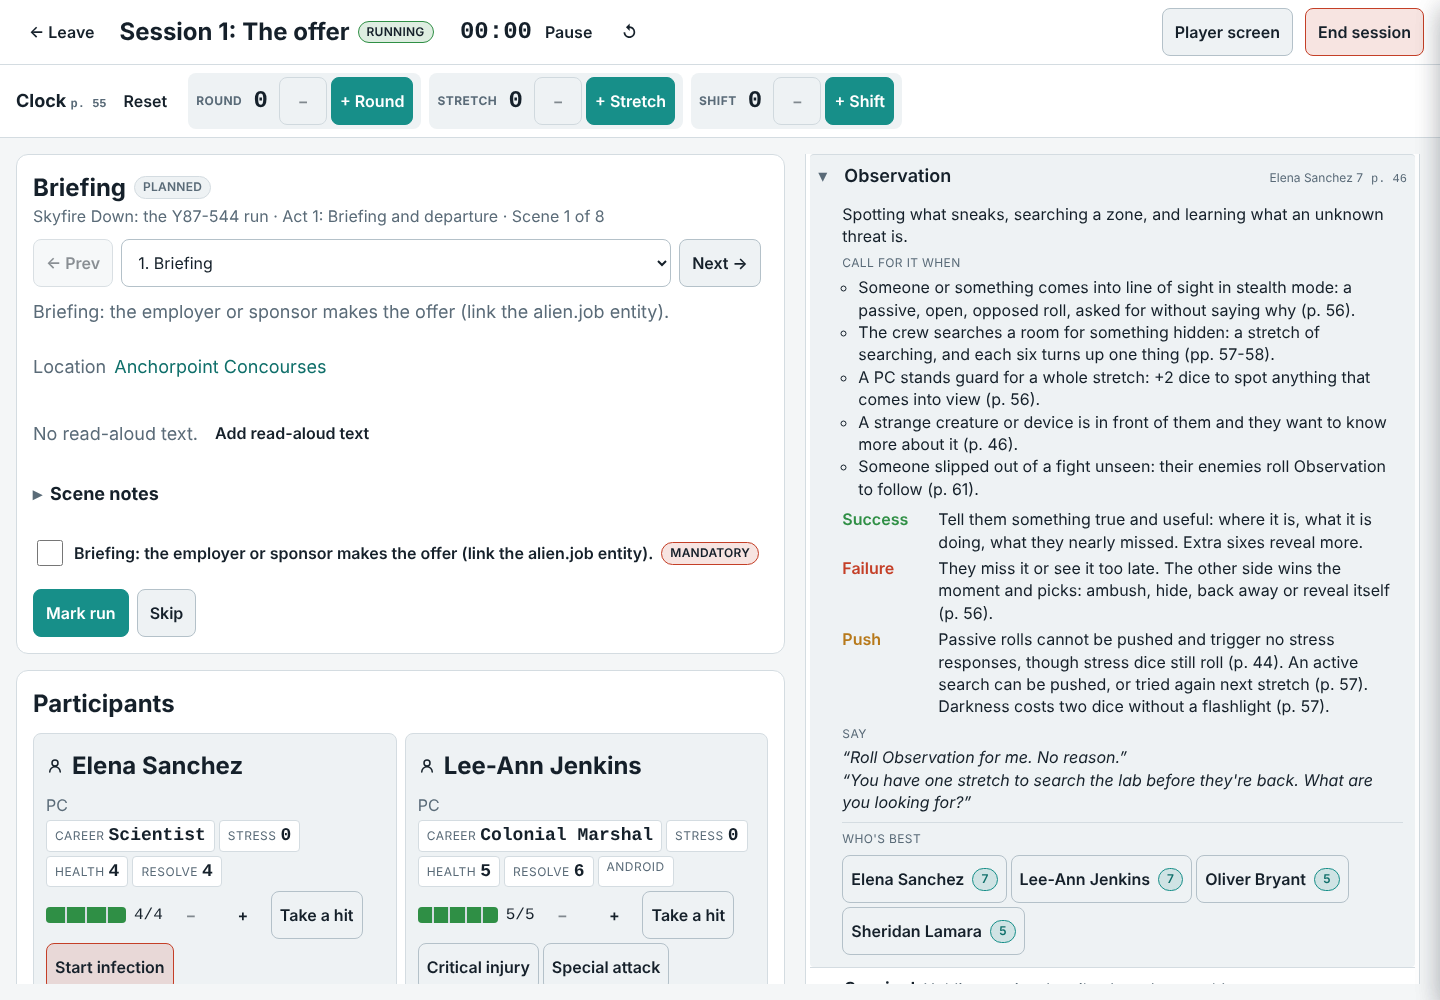
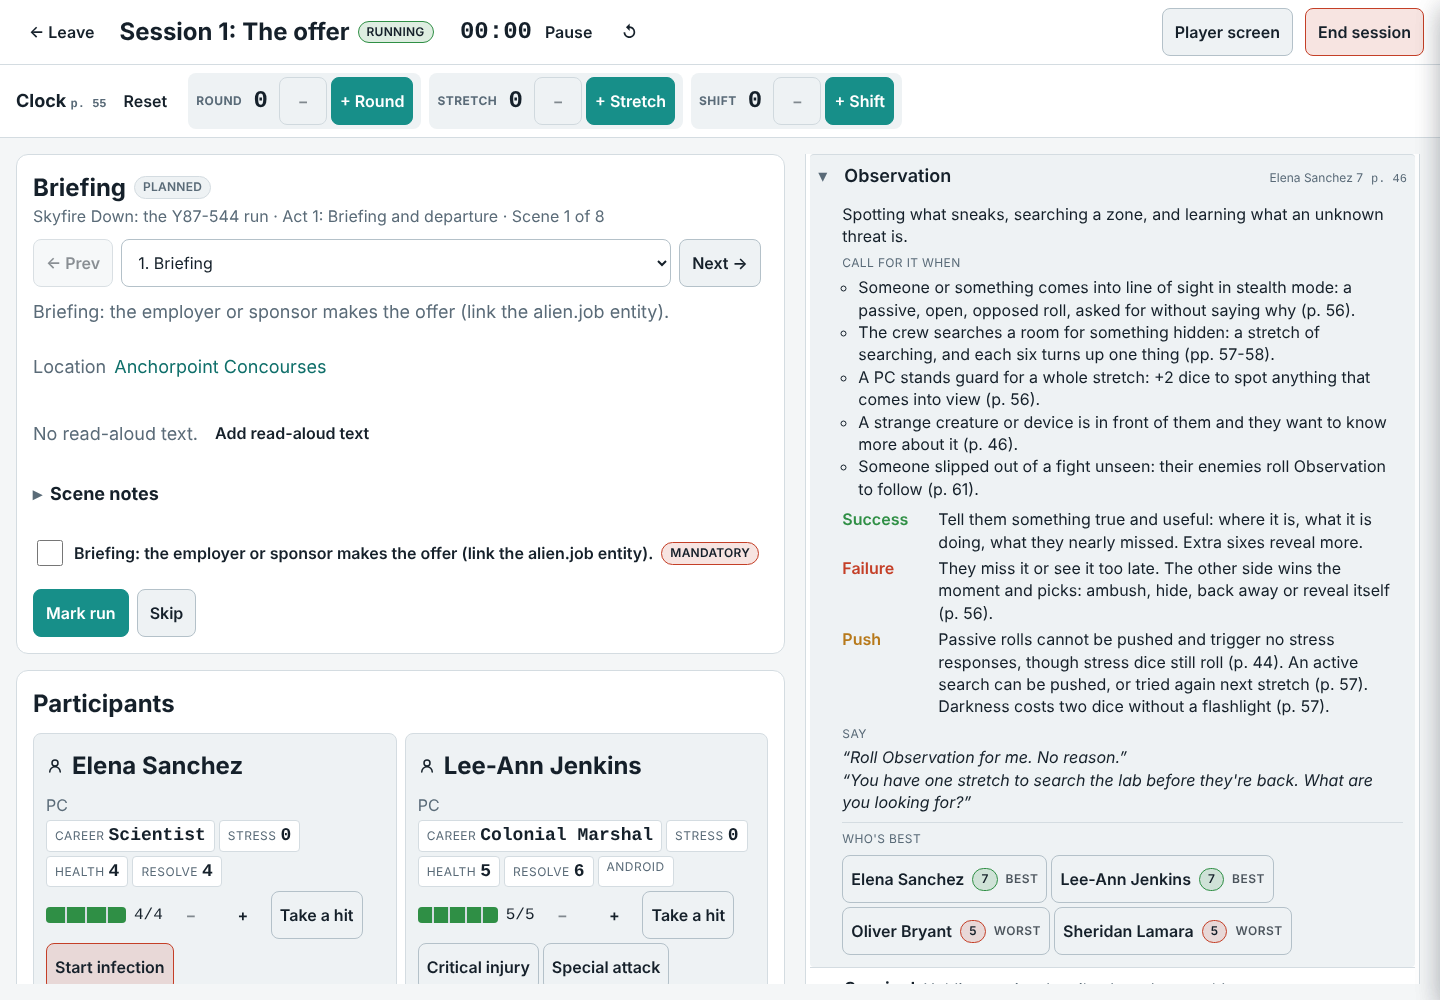
Rank who's best by roll strength, not dice count; add 5e saving throws to the hints
The Hints tab ranked PCs by how many dice their pool rolls. A d20 system
always rolls one die, so every 5e or ORC character tied and the list fell
back to alphabetical order. The SDK now rates a pool with poolStrength:
the dice system's own `strength(pool)` if it defines one, else a d100
roll-under target, else the flat modifier (d20, 2d6), else the dice count
(pools such as Alien). The panel sorts by that, shows it on each badge
("+7", "65%", "4") and marks the best and worst when the party differs.

The 5e play guide gains the six saving throws, with original advice.

Claude-Session: https://claude.ai/code/session_01PjoAoT19ZxbEizz2Vq94tE

Changed region(s): [[0.5938, 0.868, 0.9375, 0.961]]

diff --git a/apps/web/src/features/table/PlayGuidePanel.tsx b/apps/web/src/features/table/PlayGuidePanel.tsx
@@ -6,7 +6,7 @@
  * push adds stress the same way (SessionRollPanel).
  */
 import type { Entity, Id } from "@campaign-forge/core";
-import type { LoadedModule, PlayGuideDef, PlayGuideEntry } from "@campaign-forge/module-sdk";
+import { poolStrength, type LoadedModule, type PlayGuideDef, type PlayGuideEntry } from "@campaign-forge/module-sdk";
 import { useMemo, useState } from "react";
 import { Badge, Button, EmptyState, PlayGuideView, playGuidesForMode } from "../../components/ui";
 import { useCampaign, useMeta } from "../../state/hooks";
@@ -24,6 +24,14 @@ export interface RankedRoller {
   entity: Entity;
   /** Dice from attribute + skill (the module's `buildPool` with no stress). */
   pool: number;
+  /** How good that pool is (higher is better): the dice system's strength, e.g. a d20 bonus or a dice count. */
+  score: number;
+  /** The score as shown ("+5", "65%", "4"). */
+  scoreLabel: string;
+  /** The score read in full ("+5", "65%", "4 dice"). */
+  scoreSpoken: string;
+  /** Top or bottom of the ranking, when the PCs are not all equal. */
+  standing?: "best" | "worst";
   /** Further dice the roll adds today (e.g. stress dice). */
   extra: number;
   /** "Attribute 3 · Skill 2 · …", from the full pool's breakdown. */
@@ -40,22 +48,39 @@ function canRoll(module: LoadedModule, entity: Entity, roll: string): boolean {
   return skillOptions(module, module.entityType(entity.type)).some((s) => s.id === roll);
 }
 
-/** PCs that can roll `roll`, best pool first (ties by name). */
+const signedCount = (n: number) => (n < 0 ? `−${-n}` : `+${n}`);
+
+/**
+ * PCs that can roll `roll`, strongest first (ties by name): ranked by the dice
+ * system's pool strength, so a d20 system ranks by bonus and a pool system by
+ * dice. When the PCs are not all equal, the top and bottom are marked.
+ */
 export function rankRollers(module: LoadedModule, pcs: Entity[], roll: string): RankedRoller[] {
   const dice = module.module.dice;
-  return pcs
+  const ranked: RankedRoller[] = pcs
     .filter((pc) => canRoll(module, pc, roll))
     .map((entity) => {
       const { label, input } = skillInput(module, entity, roll);
       const full = dice.buildPool(input);
-      const pool = diceCount(dice.buildPool({ ...input, stress: 0 }).dice);
+      const base = dice.buildPool({ ...input, stress: 0 });
+      const pool = diceCount(base.dice);
+      const strength = poolStrength(dice, base);
       const breakdown = (full.breakdown ?? [])
         .filter((b) => b.count !== 0)
-        .map((b) => `${b.label} ${b.count}`)
+        // flat modifiers (a d20 bonus) read signed; dice read as a count
+        .map((b) => `${b.label} ${b.die === "mod" ? signedCount(b.count) : b.count}`)
         .join(" · ");
-      return { entity, pool, extra: Math.max(0, diceCount(full.dice) - pool), breakdown, label, input };
+      return { entity, pool, score: strength.score, scoreLabel: strength.label, scoreSpoken: strength.spoken ?? strength.label, extra: Math.max(0, diceCount(full.dice) - pool), breakdown, label, input };
     })
-    .sort((a, b) => b.pool - a.pool || a.entity.name.localeCompare(b.entity.name));
+    .sort((a, b) => b.score - a.score || a.entity.name.localeCompare(b.entity.name));
+  const top = ranked[0]?.score;
+  const bottom = ranked[ranked.length - 1]?.score;
+  if (top !== undefined && bottom !== undefined && top > bottom)
+    for (const r of ranked) {
+      if (r.score === top) r.standing = "best";
+      else if (r.score === bottom) r.standing = "worst";
+    }
+  return ranked;
 }
 
 export function PlayGuidePanel({ sessionId, pcs, others = [] }: { sessionId: Id; pcs: Entity[]; others?: Entity[] }) {
@@ -89,8 +114,8 @@ export function PlayGuidePanel({ sessionId, pcs, others = [] }: { sessionId: Id;
         entryMeta={(e) => {
           const best = ranked.get(e.id)?.[0];
           return best ? (
-            <span className="cf-muted app-guide__bestline" title={`Best pool: ${best.entity.name}, ${best.pool} dice`}>
-              {best.entity.name} {best.pool}
+            <span className="cf-muted app-guide__bestline" title={`Best: ${best.entity.name}, ${best.scoreSpoken}`}>
+              {best.entity.name} {best.scoreLabel}
             </span>
           ) : null;
         }}
@@ -122,7 +147,7 @@ interface ActiveRoll {
   result: ReturnType<typeof rollSessionPool>;
 }
 
-/** The session's PCs ranked by pool for this entry; a tap rolls it for that PC, shown below and logged. */
+/** The session's PCs ranked by roll strength for this entry, best and worst marked; a tap rolls it for that PC, shown below and logged. */
 function WhoIsBest({ sessionId, entry, ranked, hasPcs }: { sessionId: Id; entry: PlayGuideEntry; ranked: RankedRoller[]; hasPcs: boolean }) {
   const ctx = useCampaign();
   const [active, setActive] = useState<ActiveRoll | undefined>();
@@ -143,12 +168,14 @@ function WhoIsBest({ sessionId, entry, ranked, hasPcs }: { sessionId: Id; entry:
               size="sm"
               variant={active?.entityId === r.entity.id ? "primary" : "default"}
               onClick={() => roll(r)}
-              aria-label={`Roll ${entry.label} for ${r.entity.name} (${r.pool} dice)`}
+              aria-label={`Roll ${entry.label} for ${r.entity.name} (${r.scoreSpoken}${r.standing ? `, ${r.standing}` : ""})`}
               title={r.breakdown}
               data-roller={r.entity.id}
+              {...(r.standing ? { "data-standing": r.standing } : {})}
             >
               <span>{r.entity.name}</span>
-              <Badge tone="accent">{r.pool}</Badge>
+              <Badge tone={r.standing === "best" ? "success" : r.standing === "worst" ? "danger" : "accent"}>{r.scoreLabel}</Badge>
+              {r.standing && <span className="app-guide__standing">{r.standing}</span>}
               {r.extra > 0 && <span className="cf-muted">+{r.extra}</span>}
             </Button>
           </li>

diff --git a/packages/module-dnd5e-srd/scripts/authored/guides.ts b/packages/module-dnd5e-srd/scripts/authored/guides.ts
@@ -1,5 +1,5 @@
 /**
- * The play guide: when to call for each ability check and skill, and how a
+ * The play guide: when to call for each ability check, skill and saving throw, and how a
  * success or a failure should move the story. All advice here is original
  * (written for Campaign Forge); the rules it leans on are the SRD's.
  */
@@ -74,6 +74,15 @@ const SKILL_ADVICE: Record<string, Advice> = {
   survival: { summary: "Tracking, foraging, navigating, enduring.", callFor: ["the trail splits", "food is running out", "a blizzard closes in"], success: "They find the way, the food, or the shelter.", failure: "They lose time or supplies, or arrive somewhere unexpected." },
 };
 
+const SAVE_ADVICE: Record<string, Advice> = {
+  strength: { summary: "Resisting force that would move, pin or crush them.", callFor: ["a wave sweeps the deck", "a vine drags them toward the pit", "a giant's shove at the cliff edge"], success: "They hold their ground, and the danger turns to someone or something else.", failure: "They are moved, pinned or knocked down; show where they end up." },
+  dexterity: { summary: "Getting out of the way: blasts, traps, falling things.", callFor: ["a fireball blooms", "the floor tile clicks", "rocks come down in the mine"], success: "They dive clear, usually for half the harm; describe the near miss.", failure: "It catches them full on; describe the scorch, the bruise, the dust." },
+  constitution: { summary: "Enduring poison, disease, cold and exhaustion, and holding concentration.", callFor: ["a poisoned blade bites", "a night in the freezing pass", "a caster is hit while holding a spell"], success: "They shrug it off, for now. Concentration holds.", failure: "The poison takes hold or the spell drops; make the cost visible at once." },
+  intelligence: { summary: "Seeing through illusions and resisting attacks on the mind's reasoning.", callFor: ["a wall that might not be there", "a psychic assault", "a maze that rearranges itself"], success: "They see the trick for what it is; tell them what is real.", failure: "The illusion holds for them; play it straight and let the others notice." },
+  wisdom: { summary: "Resisting charm, fear and control of the will.", callFor: ["a vampire's gaze", "a dragon's frightful presence", "a voice that offers exactly what they want"], success: "Their will is their own; the creature knows they resisted.", failure: "They are charmed, frightened or compelled; give the player a clear rule for what that means." },
+  charisma: { summary: "Holding on to their self: banishment, possession, planar pull.", callFor: ["a spirit tries to take over", "a banishing word", "a curse that would rewrite them"], success: "They stay themselves and stay here.", failure: "They are pushed out of body or plane for a while; keep the player involved with what they see." },
+};
+
 export const playGuide: PlayGuideDef = {
   id: id("guide.checks"),
   title: "Calling for ability checks",
@@ -95,5 +104,6 @@ export const playGuide: PlayGuideDef = {
       if (!advice) throw new Error(`no play advice for ${s.id}`);
       return { id: s.id, label: s.name, group: s.ability, kind: "skill", roll: s.id, ...advice };
     }),
+    ...ABILITIES.map((a): PlayGuideEntry => ({ id: `${a.id}-save`, label: `${a.name} save`, group: a.id, kind: "skill", roll: `${a.id}-save`, ...SAVE_ADVICE[a.id]! })),
   ],
 };

diff --git a/apps/web/src/features/table/playGuide.test.tsx b/apps/web/src/features/table/playGuide.test.tsx
@@ -68,6 +68,28 @@ describe("play guide helpers", () => {
     expect(rank("attr:might")).toEqual([["Aria", 4], ["Bren", 2]]);
     expect(rank("attr:luck")).toEqual([]);
     expect(rankRollers(ctx.module, pcs, "fight")[0]!.breakdown).toBe("Attribute 4 · Skill 2");
+    expect(rankRollers(ctx.module, pcs, "fight").map((r) => r.standing)).toEqual(["best", "worst"]);
+  });
+
+  it("ranks d20 characters by their bonus, not their dice, and marks the best and worst", async () => {
+    const id = await createCampaign({ name: "Guide d20", moduleId: "dnd5e-srd" });
+    const ctx = await openCampaign(id);
+    opened.push(ctx.close);
+    const pc = (name: string, intelligence: number, skills: Record<string, number> = {}, saves: Record<string, number> = {}) =>
+      createEntity(ctx, {
+        type: "dnd5e-srd.character",
+        name,
+        fields: { isPC: true, level: 5, hp: { max: 30, current: 30 }, abilities: { strength: 10, dexterity: 10, constitution: 10, intelligence, wisdom: 10, charisma: 10 }, skills, saves },
+      });
+    const pcs = [pc("Ada", 8), pc("Bo", 18), pc("Cy", 12, { nature: 1 }, { "intelligence-save": 1 }), pc("Di", 12)];
+    const rank = (roll: string) => rankRollers(ctx.module, pcs, roll).map((r) => [r.entity.name, r.scoreLabel, r.standing ?? ""]);
+    // proficiency at level 5 is +3
+    expect(rank("nature")).toEqual([["Bo", "+4", "best"], ["Cy", "+4", "best"], ["Di", "+1", ""], ["Ada", "−1", "worst"]]);
+    expect(rank("attr:intelligence")).toEqual([["Bo", "+4", "best"], ["Cy", "+1", ""], ["Di", "+1", ""], ["Ada", "−1", "worst"]]);
+    expect(rank("intelligence-save")).toEqual([["Bo", "+4", "best"], ["Cy", "+4", "best"], ["Di", "+1", ""], ["Ada", "−1", "worst"]]);
+    expect(rankRollers(ctx.module, pcs, "nature").find((r) => r.entity.name === "Cy")!.breakdown).toBe("Intelligence 12 +1 · Proficiency +3");
+    // all equal: nobody is marked
+    expect(rankRollers(ctx.module, pcs, "attr:strength").every((r) => r.standing === undefined)).toBe(true);
   });
 });
 
@@ -126,7 +148,7 @@ describe("PlayGuidePanel", () => {
     fireEvent.click(within(entry("lore")!).getByRole("button", { expanded: false }));
     const best = within(entry("lore")!).getByRole("list", { name: "Who's best at Lore" });
     const buttons = within(best).getAllByRole("button");
-    expect(buttons.map((b) => b.getAttribute("aria-label"))).toEqual(["Roll Lore for Bren (7 dice)", "Roll Lore for Aria (1 dice)"]);
+    expect(buttons.map((b) => b.getAttribute("aria-label"))).toEqual(["Roll Lore for Bren (7 dice, best)", "Roll Lore for Aria (1 die, worst)"]);
 
     await act(async () => {
       fireEvent.click(buttons[0]!);

diff --git a/packages/module-sdk/test/engines.test.ts b/packages/module-sdk/test/engines.test.ts
@@ -1,5 +1,5 @@
 import { describe, expect, it } from "vitest";
-import { abilityModifier, createDiceEngine, createRng, type DiceSystem, type RollResult } from "../src";
+import { abilityModifier, createDiceEngine, createRng, poolStrength, type DiceSystem, type RollResult } from "../src";
 
 function rollMany(dice: DiceSystem, input: Record<string, unknown>, n: number, prefix = "s"): RollResult[] {
   const pool = dice.buildPool(input);
@@ -357,5 +357,19 @@ describe("dice engines", () => {
       expect(pushed.canPush).toBe(false);
       expect(pushed.notes).toEqual(["pushed"]);
     });
+  });
+
+  it("rates pools for ranking: d20 and 2d6 by modifier, d100 by target, pools by dice, or the system's own strength", () => {
+    const d20 = createDiceEngine({ engine: "d20" });
+    expect(poolStrength(d20, d20.buildPool({ attribute: 16, skill: 0 }))).toEqual({ score: 3, label: "+3" });
+    expect(poolStrength(d20, d20.buildPool({ attribute: 8, skill: 0, advantage: "Advantage" }))).toEqual({ score: -1, label: "−1" });
+    const twoD6 = createDiceEngine({ engine: "2d6" });
+    expect(poolStrength(twoD6, twoD6.buildPool({ attribute: 2 }))).toEqual({ score: 2, label: "+2" });
+    const d100 = createDiceEngine({ engine: "d100" });
+    expect(poolStrength(d100, d100.buildPool({ skill: 65 }))).toEqual({ score: 65, label: "65%" });
+    const pool = createDiceEngine({ engine: "pool" });
+    expect(poolStrength(pool, pool.buildPool({ attribute: 3, skill: 2 }))).toEqual({ score: 5, label: "5", spoken: "5 dice" });
+    const own: Pick<DiceSystem, "strength"> = { strength: () => ({ score: 9, label: "nine" }) };
+    expect(poolStrength(own, { dice: { d6: 1 } })).toEqual({ score: 9, label: "nine" });
   });
 });

diff --git a/packages/module-sdk/src/types.ts b/packages/module-sdk/src/types.ts
@@ -200,6 +200,14 @@ export interface RollResult {
   meta?: Record<string, unknown>;
 }
 
+/** How good a pool is for ranking (higher is better), with a short label ("+5", "65%", "4"). */
+export interface PoolStrength {
+  score: number;
+  label: string;
+  /** The label read in full, e.g. for screen readers ("4 dice"); defaults to `label`. */
+  spoken?: string;
+}
+
 /**
  * A module's dice adapter. The core calls these; the module decides semantics.
  * All randomness goes through the supplied Rng.
@@ -226,6 +234,12 @@ export interface DiceSystem {
   push?(previous: RollResult, rng: Rng, input?: Record<string, unknown>): RollResult;
   /** One-line human description of a result. */
   describe(result: RollResult): string;
+  /**
+   * How good a pool is, to rank characters for a roll (higher is better) and
+   * the short label to show for it. Optional: `poolStrength` falls back to a
+   * roll-under target, then the pool's flat modifier, then its dice count.
+   */
+  strength?(pool: DicePool): PoolStrength;
   /**
    * Named module-specific roll operations beyond pool rolls (for example a
    * reaction roll against a table). Each takes an input object and the Rng.

diff --git a/apps/web/screenshots/readme.spec.ts b/apps/web/screenshots/readme.spec.ts
@@ -602,6 +602,21 @@ test("dnd5e-table", async ({ page }) => {
   await shot(page, "dnd5e-table");
 });
 
+test("dnd5e-hints", async ({ page }) => {
+  await page.setViewportSize({ width: 1440, height: 1000 });
+  await loadDemo(page, "dnd5e");
+  await startSession1(page);
+  await page.getByRole("tab", { name: "Hints" }).click();
+  const entry = page.locator('[data-entry="stealth"]');
+  await entry.getByRole("button", { name: /^Stealth/ }).first().click();
+  // ranked by d20 bonus: Wren's expertise first, the heavy-armoured fighter last
+  const rollers = entry.getByRole("list", { name: "Who's best at Stealth" });
+  await expect(rollers.locator("[data-standing=best]").first()).toContainText("Wren Talliver");
+  await expect(rollers.locator("[data-standing=worst]")).not.toHaveCount(0);
+  await entry.evaluate((e) => e.scrollIntoView({ block: "start" }));
+  await shot(page, "dnd5e-hints");
+});
+
 // ---------------------------------------------------------------------------
 // Hollowmere (second edition remaster, ORC core rules)
 // ---------------------------------------------------------------------------

diff --git a/packages/module-sdk/src/engines/strength.ts b/packages/module-sdk/src/engines/strength.ts
@@ -1,0 +1,15 @@
+/**
+ * Ranking pools across characters ("who is best at this roll"): the dice
+ * system's own `strength` if it has one, else a roll-under target (d100),
+ * else the flat modifier (d20, 2d6), else the number of dice (pools).
+ */
+import type { DicePool, DiceSystem, PoolStrength } from "../types";
+
+export function poolStrength(system: Pick<DiceSystem, "strength">, pool: DicePool): PoolStrength {
+  if (system.strength) return system.strength(pool);
+  const target = pool.meta?.target;
+  if (typeof target === "number" && Number.isFinite(target)) return { score: target, label: `${target}%` };
+  if (typeof pool.modifier === "number" && Number.isFinite(pool.modifier)) return { score: pool.modifier, label: pool.modifier < 0 ? `−${-pool.modifier}` : `+${pool.modifier}` };
+  const dice = Object.values(pool.dice).reduce((a, b) => a + (b > 0 ? b : 0), 0);
+  return { score: dice, label: String(dice), spoken: `${dice} ${dice === 1 ? "die" : "dice"}` };
+}

diff --git a/apps/web/e2e/dnd5e.spec.ts b/apps/web/e2e/dnd5e.spec.ts
@@ -138,7 +138,7 @@ test("SRD 5.1 pack: a campaign, a PC and a Goblin, a skill roll at the table, re
   await expect(page.getByTestId("step-foe")).toContainText("dnd5e-srd.encounter.forest-1");
   await expect(page.getByTestId("step-foe")).toContainText(/CR (1\/8|1\/4|1\/2|1|2|3)/);
   // the steps read as lines for the GM, not as the result objects (no preset ids)
-  await expect(page.getByTestId("step-result-foe")).toHaveText(/^[A-Z][\w ()'-]+ \(CR [\d/]+, \d+ XP each\)$/);
+  await expect(page.getByTestId("step-result-foe")).toHaveText(/^[A-Z][\w ()',-]+ \(CR [\d/]+, \d+ XP each\)$/);
   await expect(page.getByTestId("step-result-group")).toHaveText(/^\d+ × [A-Z]/);
   await shot(page, "generator");
   await page.getByTestId("accept").click();

diff --git a/apps/web/e2e/playguide.spec.ts b/apps/web/e2e/playguide.spec.ts
@@ -33,7 +33,7 @@ test("table mode hints: search the play guide, read the cues and roll for the be
   // the best PC comes first; one tap rolls in place
   const best = entry.getByRole("list", { name: "Who's best at Observation" }).getByRole("button").first();
   const label = (await best.getAttribute("aria-label")) ?? "";
-  const name = /^Roll Observation for (.+) \(\d+ dice\)$/.exec(label)?.[1];
+  const name = /^Roll Observation for (.+) \(\d+ dice(?:, best|, worst)?\)$/.exec(label)?.[1];
   expect(name).toBeTruthy();
   await best.click();
   const panel = entry.getByTestId("dice-panel");

diff --git a/packages/module-sdk/src/engines/index.ts b/packages/module-sdk/src/engines/index.ts
@@ -11,6 +11,7 @@ export { abilityModifier, createD20Engine, type Advantage } from "./d20";
 export { createPoolEngine } from "./pool";
 export { createTwoD6Engine, DEFAULT_BANDS } from "./twod6";
 export { createD100Engine, DEFAULT_DEGREES } from "./d100";
+export { poolStrength } from "./strength";
 
 /** Build a DiceSystem from an engine config. Throws on a config the engine cannot use. */
 export function createDiceEngine(config: DiceEngineConfig): DiceSystem {

diff --git a/apps/web/src/styles/app.css b/apps/web/src/styles/app.css
@@ -2513,6 +2513,12 @@ a.cf-btn {
 .app-guide__bestline {
   font-size: var(--cf-text-xs);
 }
+.app-guide__standing {
+  font-size: var(--cf-text-xs);
+  text-transform: uppercase;
+  letter-spacing: 0.04em;
+  opacity: 0.75;
+}
 .app-guide__rollers .cf-btn--primary .cf-badge {
   background: var(--cf-surface);
   color: var(--cf-text);

diff --git a/README.md b/README.md
@@ -46,7 +46,7 @@ Four demo campaigns load from the campaign list: *Skyfire Down* (Alien campaign 
 
 ![Table mode](docs/screenshots/table-mode.png)
 
-**Table hints**: for each attribute and skill, the story moments that call for it, what success, failure and a push should do to the scene, lines to say aloud, and the PCs ranked by dice pool; tap one to roll on the spot.
+**Table hints**: for each attribute and skill, the story moments that call for it, what success, failure and a push should do to the scene, lines to say aloud, and the PCs ranked by how good their roll is, best and worst marked; tap one to roll on the spot.
 
 ![Table hints](docs/screenshots/table-hints.png)
 
@@ -125,6 +125,10 @@ Four demo campaigns load from the campaign list: *Skyfire Down* (Alien campaign 
 **Fifth edition table**: the opening ambush with rolled initiative, highest first, and hit points for the party and the goblins in the scene.
 
 ![Fifth edition table mode](docs/screenshots/dnd5e-table.png)
+
+**Fifth edition hints**: each ability check, skill and saving throw with its story cues, and the party ranked by their d20 bonus (ability, proficiency and expertise), best and worst marked.
+
+![Fifth edition hints](docs/screenshots/dnd5e-hints.png)
 
 **Remaster sheet**: a level 1 cleric from *Hollowmere*; attribute modifiers and proficiency ranks are written down, and every check total, AC, Hit Points, class DC and spell DC is computed.
 
